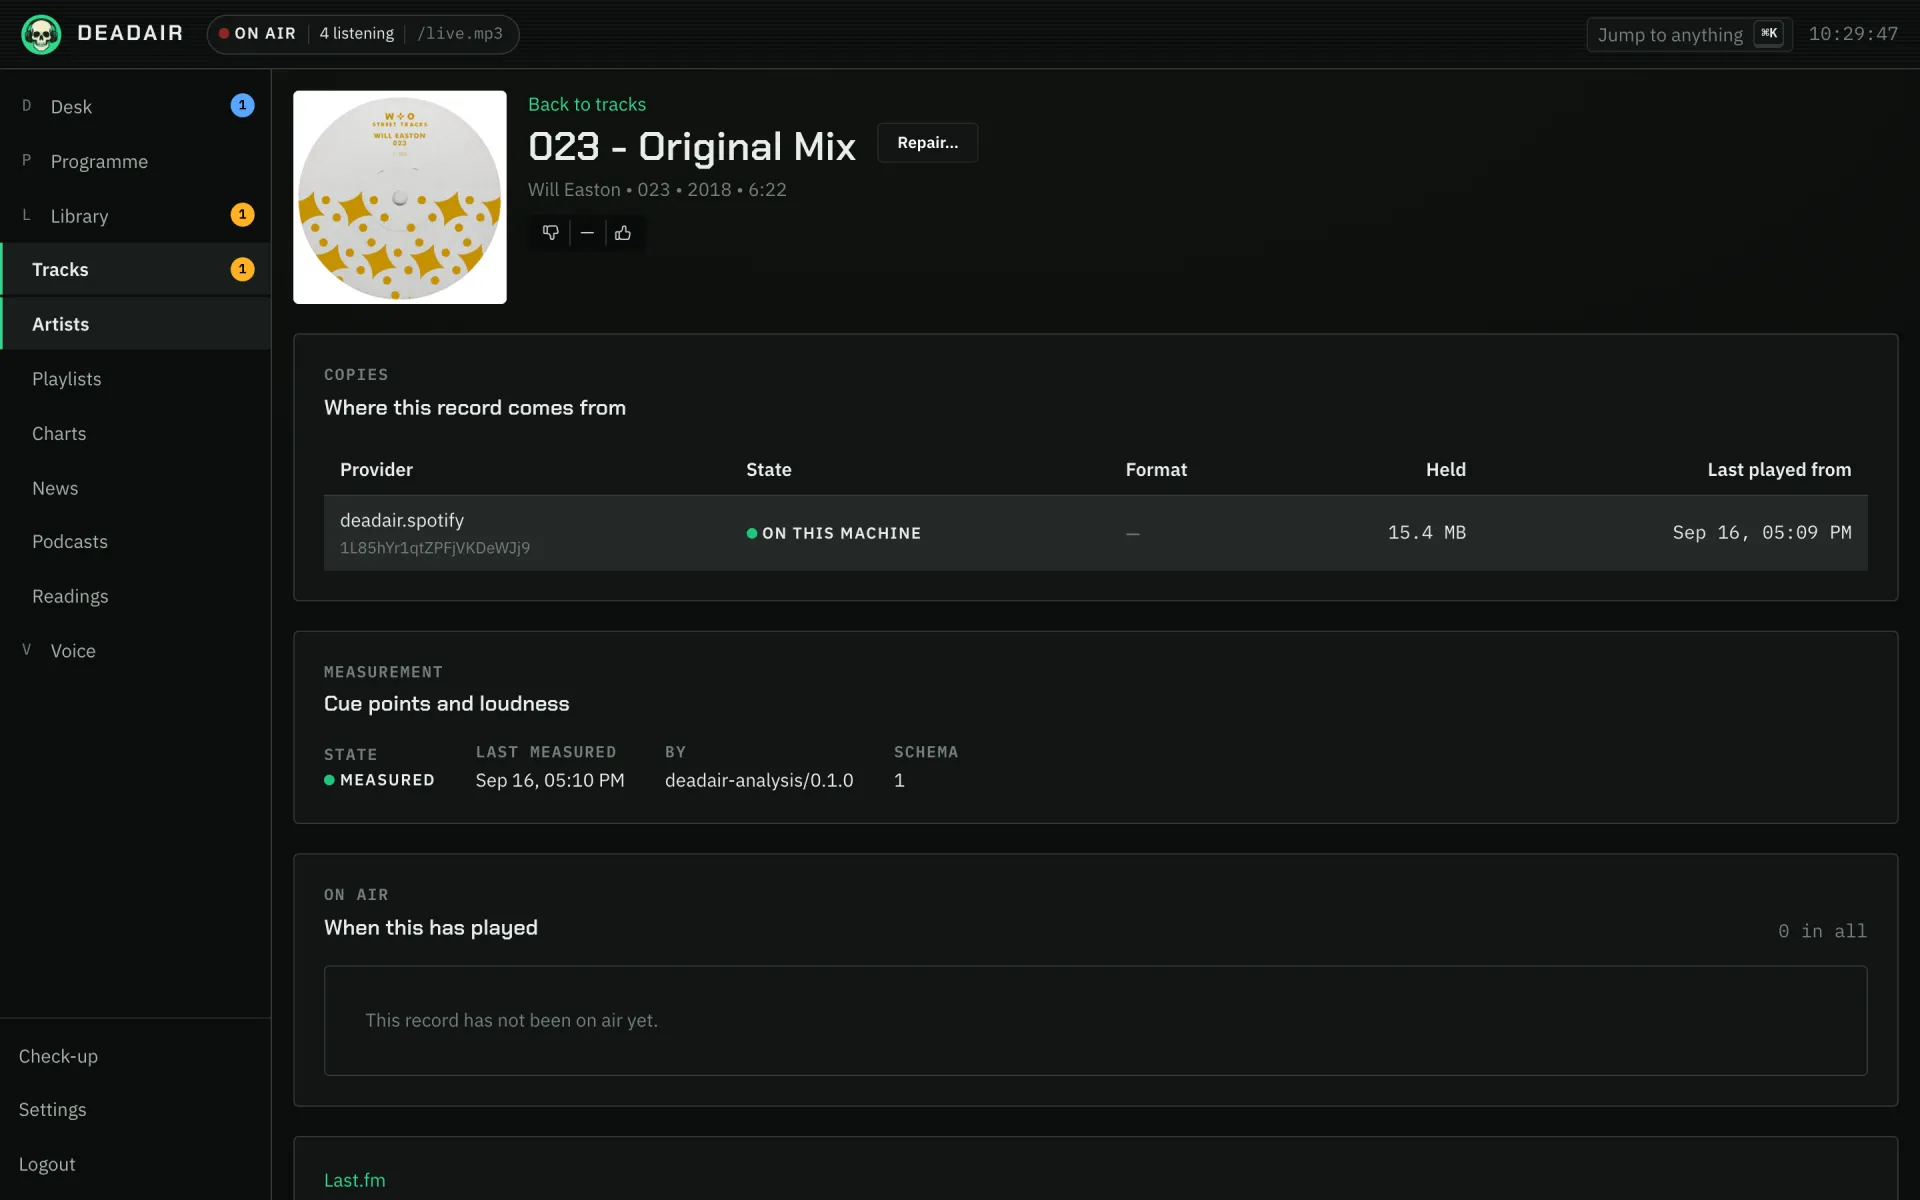
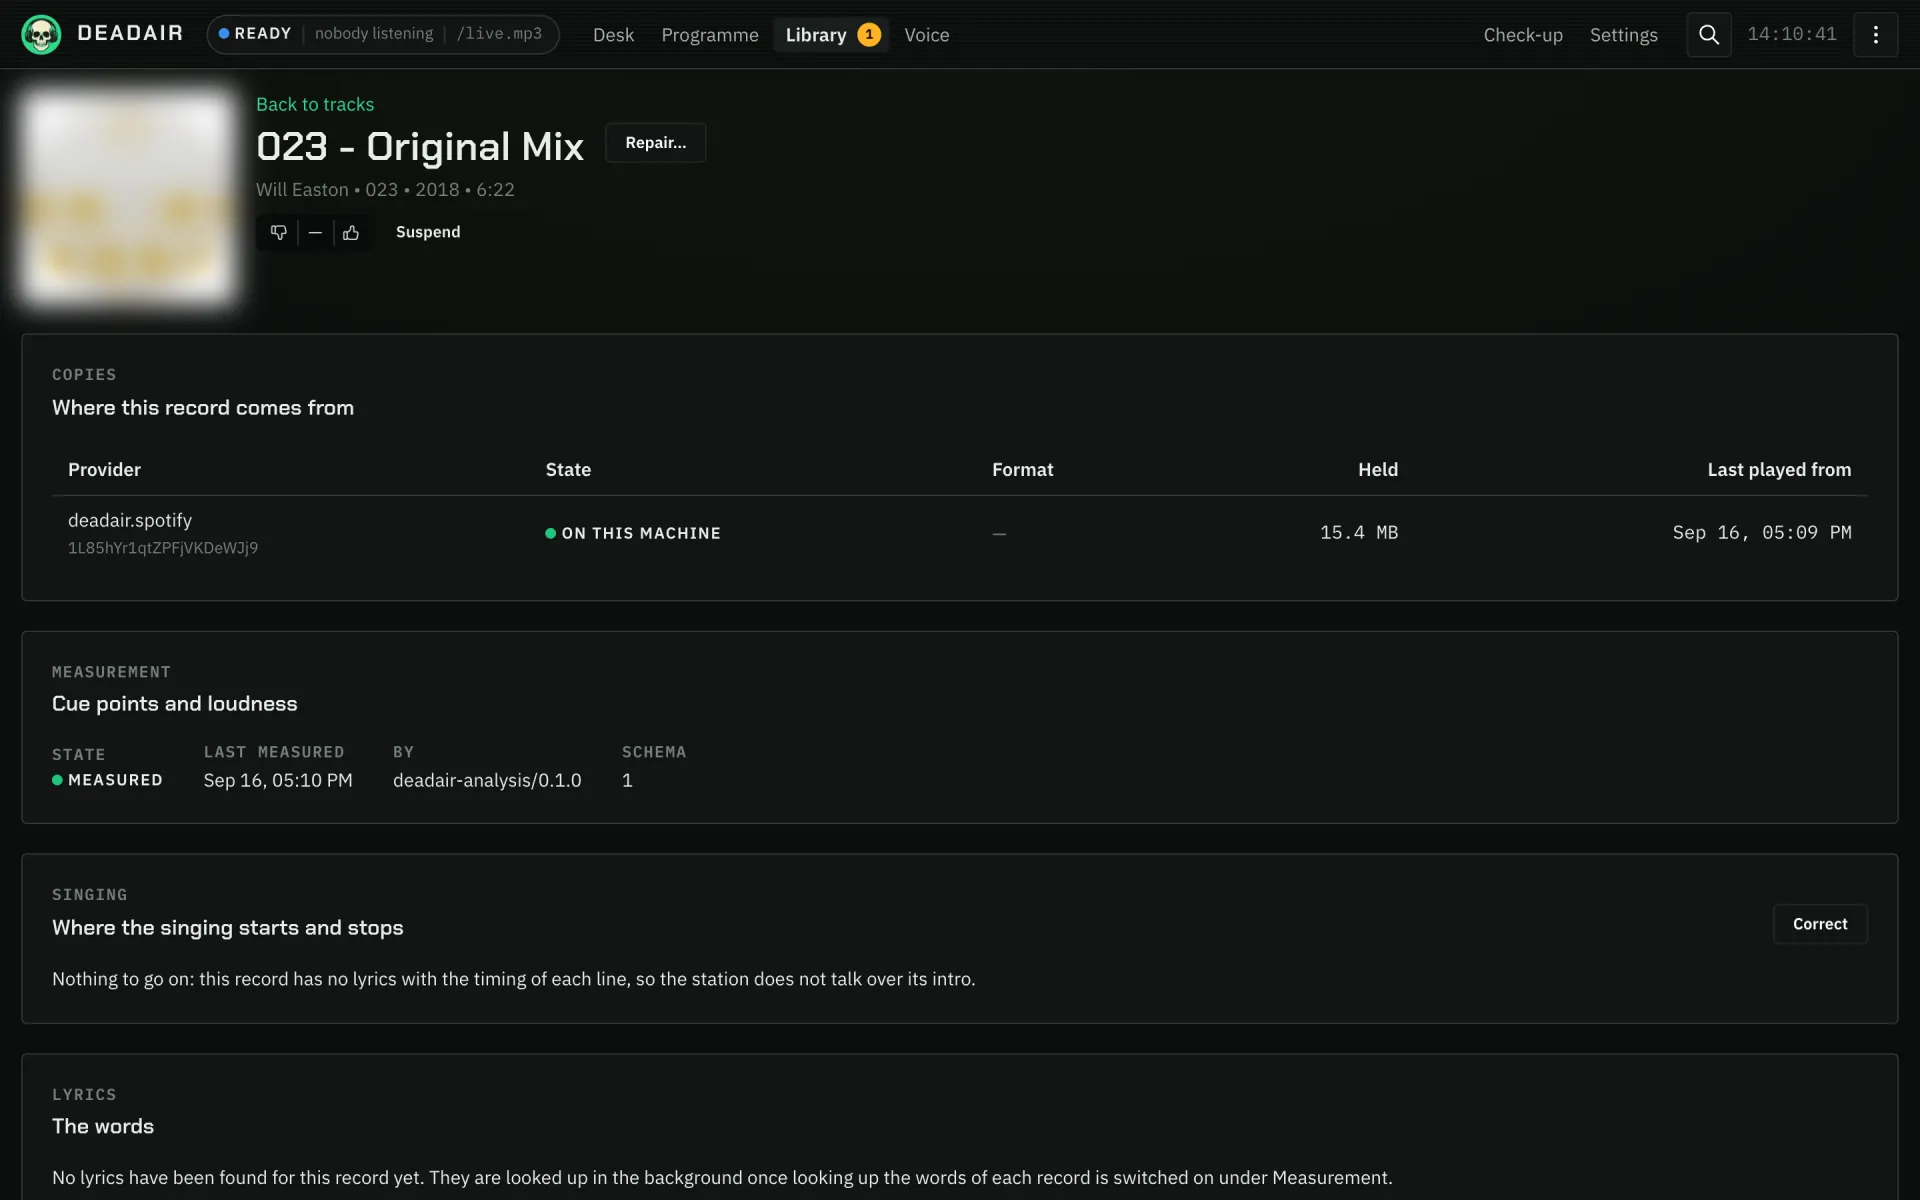
Retake the site's console pictures on the redesigned console (#1017)
* Retake the home page's and feature pages' console pictures on the redesigned console

Fifteen pictures still showed the left rail: the Desk in all three themes, Check-up, Library's
tracks and a record, Plugins, the activity feed, charts, Appearance and What it said. They are
taken again from the live station, cover art blurred, the check-up's QR code swapped, What it said
without the news bulletins (other people's headlines) and the feed without a passing fault. A
track row now opens a drawer rather than its page, so the capture script reaches the record's own
page through the drawer's link.

* Draw the social card without a blur box placed by position

The card laid a blurred box over the desk screenshot where the on-air record's cover used to sit.
The redesigned desk moved that cover, so the box landed on the on-air card's text instead. The
desk is shot with --blur-art, which already blurs every cover on the page, so the card no longer
blurs anything itself. Redrawn from the retaken desk.

diff --git a/apps/site/CLAUDE.md b/apps/site/CLAUDE.md
@@ -128,8 +128,10 @@ publish, which the productions page needs whenever a caller's subject is somebod
 **The image a link unfurls with is drawn, and it contains a screenshot.** `scripts/social.card.mjs`
 writes `static/img/social.card.png` (1200x630) from the logo, the carbon colours and
 `static/img/console/desk.webp`, and `image` in `docusaurus.config.ts` names it. It is not redrawn by
-the build, so run it again after retaking the desk, and check that the blur over the cover art still
-sits on the cover, because it is placed by position. It takes a path to a browser if Playwright's own
+the build, so run it again after retaking the desk. It blurs nothing itself: shoot the desk with
+`--blur-art`, which blurs every cover on the page, the record on air included. It used to lay a blur
+box over the cover by position, and the first retake after the console's redesign left the box
+smudging the on-air card's text. It takes a path to a browser if Playwright's own
 is not installed.
 
 **The sitemap leaves out every generated API page but the index.** They were 86% of its URLs, one
